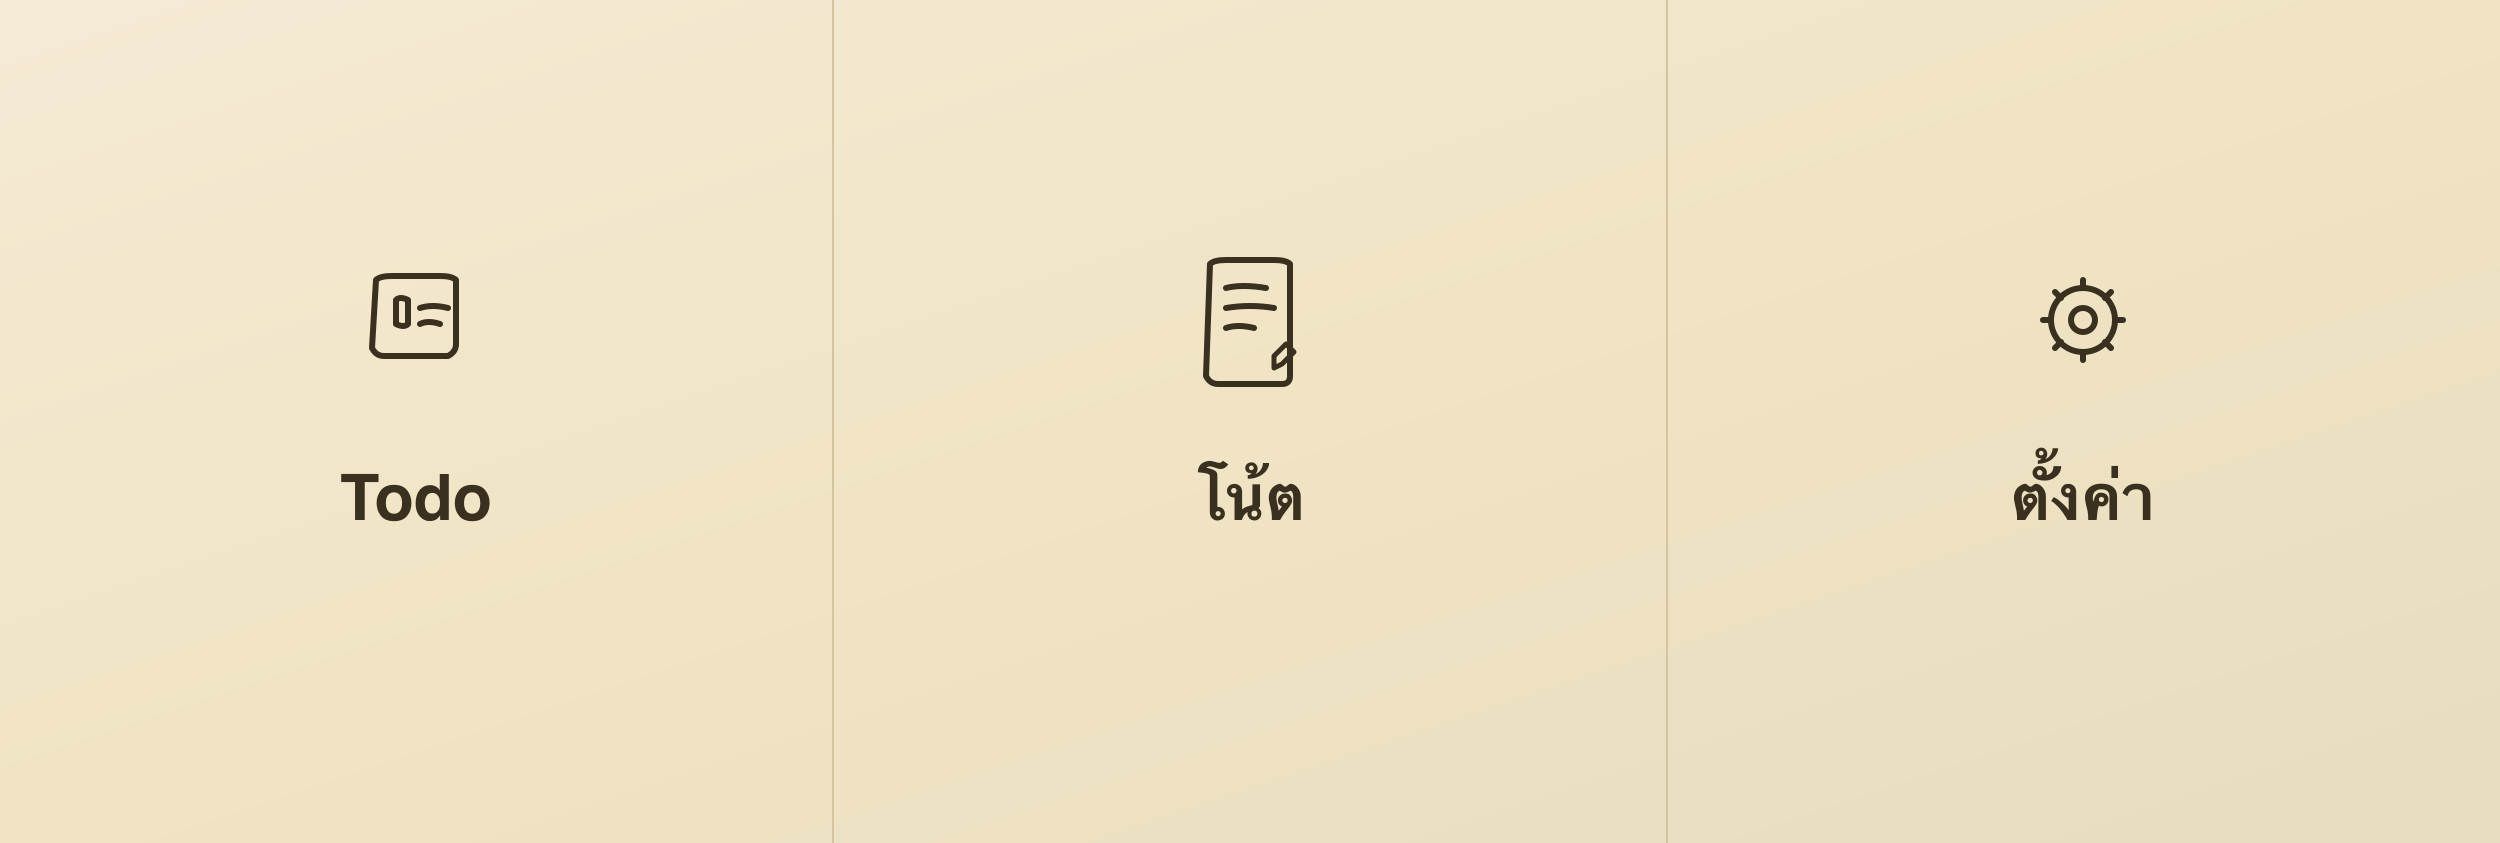
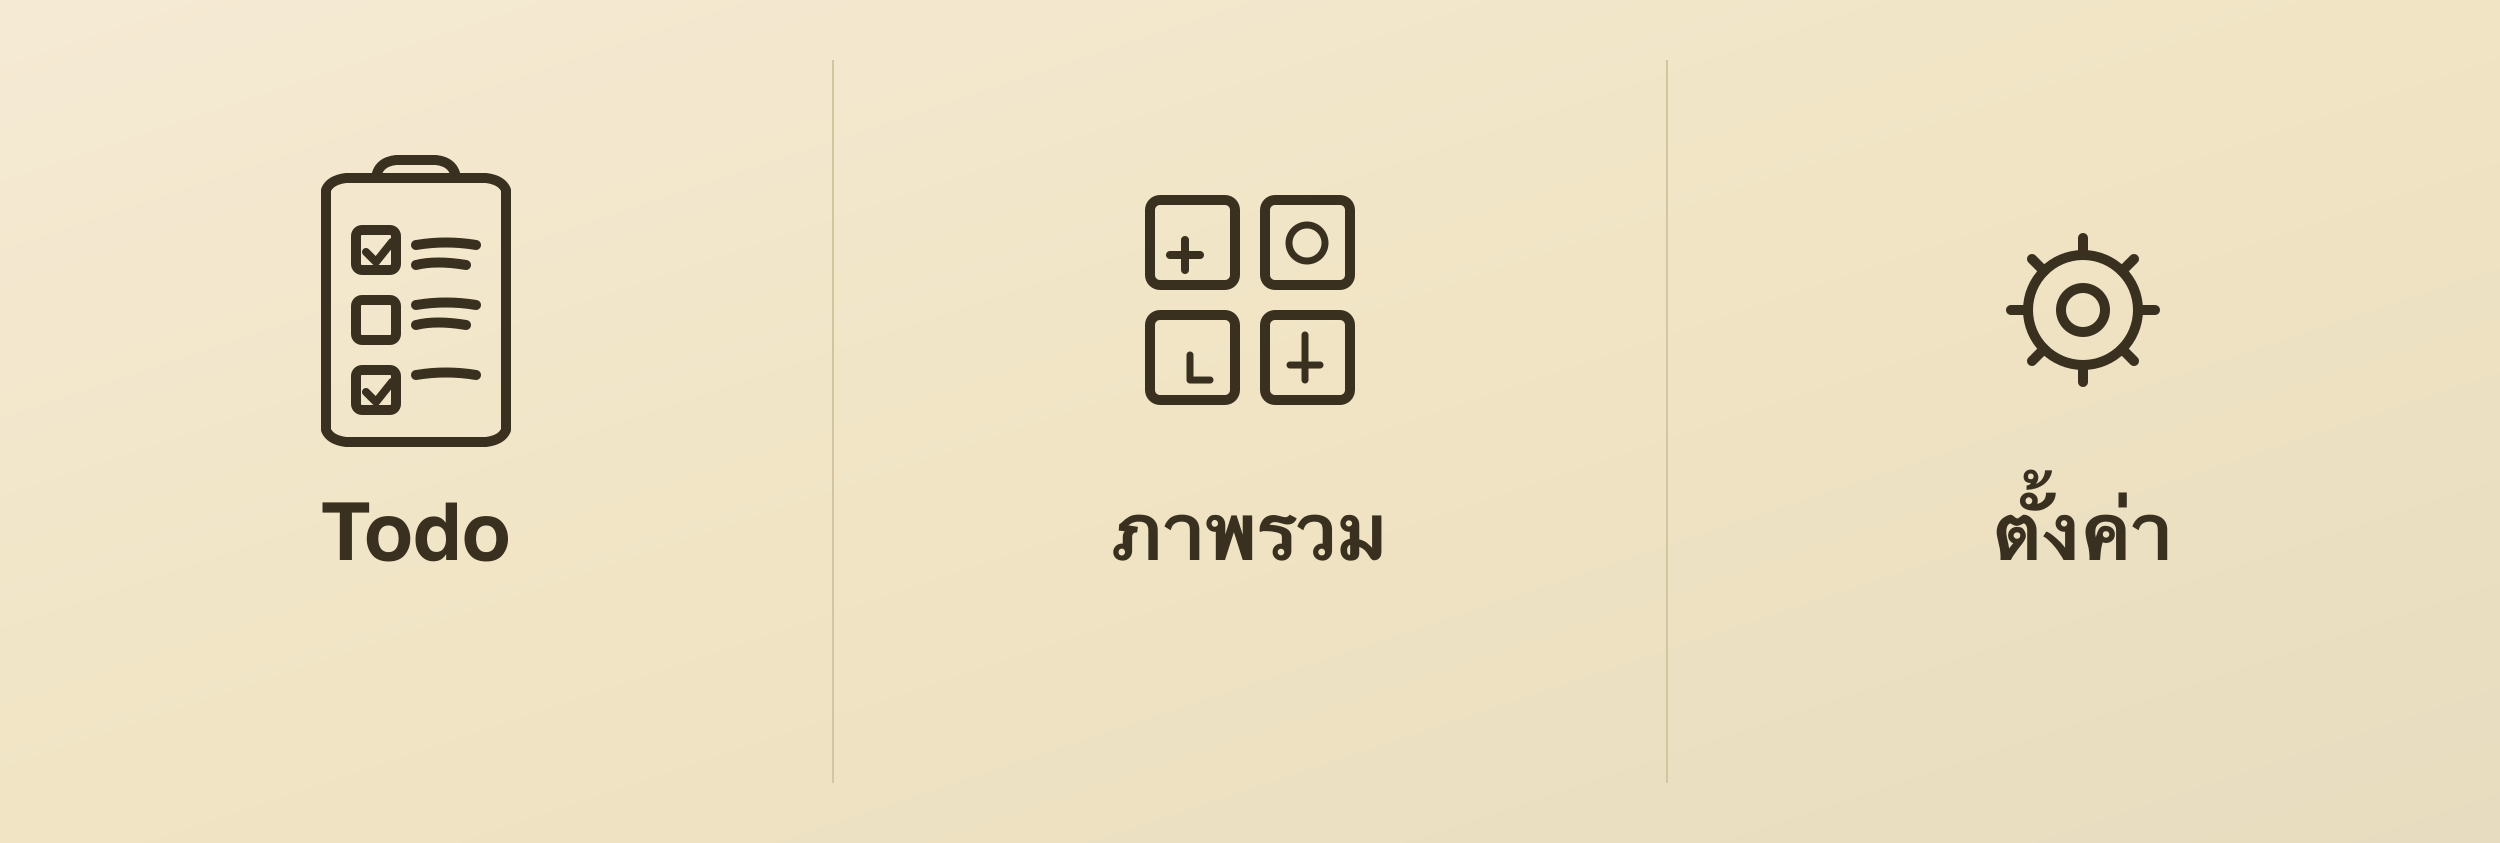
feat(line+liff): adopt design PR #8 — mascot loading + error views + rich menu v3 (#51)
Sync designer assets from LungNote-design PR #8:

- LIFF /liff loading: replace simple spinner with mascot Float+Dots
  (CSS-only, inline SVG) — Option D from mascot-loading.html
- LIFF /liff error: replace generic "!" icon with mascot X-eyes + shake
  animation — from error-pages.html (500 variant)
- Add desktop @media (min-width: 768px) — larger mascot, bigger type,
  wider container. PC browser opening the LIFF launcher no longer
  shows a narrow mobile layout.
- Rich menu Default: relabel "Note" → "ภาพรวม", route → /th/dashboard
  (was /th/dashboard/notes). Bigger icons (~260px) in PNG.
- Rich menu Welcome PNG: refreshed art (mascot-aware).
- Welcome flex hero: point to lungnote.com/line/welcome-hero.png
  (was stale lungnote.app domain).
- Add public/line/welcome-hero.png + welcome-hero-dark.png (1040×585).

Designer PR: https://github.com/PASAKON/LungNote-design/pull/8

Deploy note: after merge, run
  npx tsx --env-file=.env.local scripts/setup-rich-menus.ts
to push the updated rich menu to LINE OA.

diff --git a/src/app/liff/liff.css b/src/app/liff/liff.css
@@ -1,4 +1,4 @@
-/* LIFF login flow — based on LungNote-design login states */
+/* LIFF login flow — design/brand/mascot-loading.html + design/brand/error-pages.html */
 .liff-state {
   /* Cardboard theme — ADR-0013. Mirrors dashboard.css tokens. */
   --bg: #f5ead4;
@@ -26,7 +26,7 @@
   justify-content: center;
   padding: 40px 24px;
   text-align: center;
-  gap: 24px;
+  gap: 20px;
 }
 
 @media (prefers-color-scheme: dark) {
@@ -47,16 +47,12 @@
   height: 0;
 }
 
-.liff-logo svg {
-  width: 64px;
-  height: 64px;
-  filter: url(#liff-sketchy);
-}
 .liff-title {
   font-family: var(--font-display);
   font-size: 36px;
   font-weight: 700;
   color: var(--fg);
+  line-height: 1;
 }
 .liff-title span {
   color: var(--accent);
@@ -67,33 +63,98 @@
   max-width: 280px;
 }
 
-.liff-spinner-wrap {
-  position: relative;
-  width: 64px;
-  height: 64px;
-  margin: 16px 0;
+/* ── Mascot ─────────────────────────────────────────── */
+.liff-mascot-wrap {
+  width: 140px;
+  height: 140px;
+  color: var(--fg);
+  display: flex;
+  align-items: center;
+  justify-content: center;
 }
-.liff-spinner {
-  width: 64px;
-  height: 64px;
-  border: 4px solid var(--border);
-  border-top-color: var(--accent);
-  border-radius: 50%;
-  animation: liff-spin 1s linear infinite;
-  filter: url(#liff-sketchy);
+.liff-mascot {
+  width: 100%;
+  height: 100%;
 }
-@keyframes liff-spin {
-  to {
-    transform: rotate(360deg);
+.liff-mascot--error {
+  color: var(--red);
+}
+
+/* Option D — Float + Dots (connecting). */
+@keyframes liff-float {
+  0%,
+  100% {
+    transform: translateY(0) rotate(0);
+  }
+  33% {
+    transform: translateY(-10px) rotate(-2deg);
+  }
+  66% {
+    transform: translateY(-5px) rotate(2deg);
   }
 }
+.liff-mascot-wrap--float .liff-mascot {
+  animation: liff-float 2.5s ease-in-out infinite;
+}
+
+/* Error mascot — gentle shake on entry. */
+@keyframes liff-shake {
+  0%,
+  100% {
+    transform: translateX(0);
+  }
+  25% {
+    transform: translateX(-4px) rotate(-1.5deg);
+  }
+  75% {
+    transform: translateX(4px) rotate(1.5deg);
+  }
+}
+.liff-mascot-wrap--error .liff-mascot {
+  animation: liff-shake 0.6s ease-out 1;
+}
+
+/* Loading dots — 3 dots bouncing. */
+@keyframes liff-dot {
+  0%,
+  80%,
+  100% {
+    transform: translateY(0);
+    opacity: 0.5;
+  }
+  40% {
+    transform: translateY(-8px);
+    opacity: 1;
+  }
+}
+.liff-dots {
+  display: flex;
+  gap: 8px;
+  justify-content: center;
+  margin: 4px 0;
+}
+.liff-dots span {
+  width: 10px;
+  height: 10px;
+  border-radius: 50%;
+  background: var(--accent);
+  animation: liff-dot 1.2s ease-in-out infinite;
+}
+.liff-dots span:nth-child(2) {
+  animation-delay: 0.15s;
+}
+.liff-dots span:nth-child(3) {
+  animation-delay: 0.3s;
+}
+
 .liff-spinner-text {
   font-family: var(--font-display);
   font-size: 20px;
   color: var(--muted);
-  margin-top: 8px;
+  margin-top: 4px;
 }
 
+/* ── Success ────────────────────────────────────────── */
 .liff-success-icon {
   width: 80px;
   height: 80px;
@@ -128,21 +189,7 @@
   color: var(--accent);
 }
 
-.liff-error-icon {
-  width: 80px;
-  height: 80px;
-  background: var(--red-light);
-  border-radius: 50%;
-  display: flex;
-  align-items: center;
-  justify-content: center;
-  filter: url(#liff-sketchy);
-}
-.liff-error-icon span {
-  font-size: 40px;
-  font-weight: 700;
-  color: var(--red);
-}
+/* ── Error ──────────────────────────────────────────── */
 .liff-error-msg {
   font-family: var(--font-display);
   font-size: 28px;
@@ -173,4 +220,31 @@
 }
 .liff-btn:hover {
   transform: translate(-1px, -1px);
+}
+
+/* ── Desktop / wider viewport ───────────────────────── */
+@media (min-width: 768px) {
+  .liff-state {
+    max-width: 720px;
+    gap: 28px;
+    padding: 64px 32px;
+  }
+  .liff-mascot-wrap {
+    width: 180px;
+    height: 180px;
+  }
+  .liff-title {
+    font-size: 48px;
+  }
+  .liff-spinner-text {
+    font-size: 24px;
+  }
+  .liff-subtitle {
+    font-size: 16px;
+    max-width: 360px;
+  }
+  .liff-error-msg,
+  .liff-success-msg {
+    font-size: 34px;
+  }
 }

diff --git a/src/app/liff/LiffClient.tsx b/src/app/liff/LiffClient.tsx
@@ -2,7 +2,6 @@
 
 import { useEffect, useRef, useState } from "react";
 import { useRouter, useSearchParams } from "next/navigation";
-import { MascotMark } from "@/components/MascotMark";
 import { LiffSketchyFilter } from "./LiffSketchyFilter";
 import "./liff.css";
 
@@ -149,24 +148,86 @@ function LiffInner({ liffId }: { liffId: string }) {
   );
 }
 
-function Logo() {
+// Inline LungNote mascot — Option D "Float & Dots" animation.
+// Path data mirrors design/brand/mascot-loading.html.
+function MascotFloat() {
   return (
-    <div className="liff-logo" style={{ color: "#3a3020" }}>
-      <MascotMark size={64} />
-    </div>
+    <svg
+      className="liff-mascot"
+      viewBox="0 0 200 200"
+      fill="none"
+      stroke="currentColor"
+      strokeWidth={3.5}
+      strokeLinecap="round"
+      strokeLinejoin="round"
+      aria-hidden="true"
+    >
+      <path d="M42 38 Q44 35 52 34 Q100 32 148 34 Q156 35 158 38 Q163 70 163 128 Q158 156 148 162 Q100 164 52 162 Q42 156 38 128 Q38 70 42 38Z" />
+      <path
+        d="M54 30 Q56 26 64 24 Q100 22 136 24 Q144 26 146 30 Q148 38 146 44 Q136 48 100 48 Q64 46 54 42 Q54 38 54 30Z"
+        strokeWidth={2.5}
+      />
+      <circle cx="74" cy="78" r="12" fill="currentColor" stroke="none" />
+      <circle cx="126" cy="76" r="10" fill="currentColor" stroke="none" />
+      <path
+        d="M76 114 Q84 122 90 128 Q94 126 100 118 Q108 108 126 92"
+        strokeWidth={5}
+      />
+      <path d="M36 82 Q20 72 6 82" />
+      <path d="M164 80 Q180 70 194 80" />
+      <path d="M62 162 Q68 172 76 178 Q84 172 86 162" />
+      <path d="M114 162 Q120 172 128 178 Q136 172 138 162" />
+    </svg>
+  );
+}
+
+// Error mascot — 500-style X-eyes + wavy mouth + lightning.
+function MascotError() {
+  return (
+    <svg
+      className="liff-mascot liff-mascot--error"
+      viewBox="0 0 200 200"
+      fill="none"
+      stroke="currentColor"
+      strokeWidth={3.5}
+      strokeLinecap="round"
+      strokeLinejoin="round"
+      aria-hidden="true"
+    >
+      <path d="M42 38 Q44 35 52 34 Q100 32 148 34 Q156 35 158 38 Q163 70 163 128 Q158 156 148 162 Q100 164 52 162 Q42 156 38 128 Q38 70 42 38Z" />
+      <path
+        d="M54 30 Q56 26 64 24 Q100 22 136 24 Q144 26 146 30 Q148 38 146 44 Q136 48 100 48 Q64 46 54 42 Q54 38 54 30Z"
+        strokeWidth={2.5}
+      />
+      {/* X eyes */}
+      <path d="M64 70 L84 86 M84 70 L64 86" strokeWidth={4} />
+      <path d="M116 68 L136 84 M136 68 L116 84" strokeWidth={4} />
+      {/* Wavy mouth */}
+      <path d="M80 120 Q90 128 100 120 Q110 128 120 120" strokeWidth={4} />
+      {/* Lightning bolt above head */}
+      <path d="M95 2 L88 18 L100 16 L92 34" strokeWidth={3} />
+      <path d="M36 82 Q20 72 6 82" />
+      <path d="M164 80 Q180 70 194 80" />
+      <path d="M62 162 Q68 172 76 178 Q84 172 86 162" />
+      <path d="M114 162 Q120 172 128 178 Q136 172 138 162" />
+    </svg>
   );
 }
 
 function ConnectingView({ label }: { label: string }) {
   return (
-    <main className="liff-state">
+    <main className="liff-state liff-state--connecting">
       <LiffSketchyFilter />
-      <Logo />
+      <div className="liff-mascot-wrap liff-mascot-wrap--float">
+        <MascotFloat />
+      </div>
       <div className="liff-title">
         Lung<span>Note</span>
       </div>
-      <div className="liff-spinner-wrap">
-        <div className="liff-spinner" />
+      <div className="liff-dots" aria-hidden="true">
+        <span />
+        <span />
+        <span />
       </div>
       <div className="liff-spinner-text">{label}</div>
       <p className="liff-subtitle">
@@ -203,10 +264,10 @@ function SuccessView() {
 
 function ErrorView({ message }: { message: string }) {
   return (
-    <main className="liff-state">
+    <main className="liff-state liff-state--error">
       <LiffSketchyFilter />
-      <div className="liff-error-icon">
-        <span>!</span>
+      <div className="liff-mascot-wrap liff-mascot-wrap--error">
+        <MascotError />
       </div>
       <div className="liff-error-msg">เชื่อมต่อไม่สำเร็จ</div>
       <p className="liff-error-detail">{message}</p>
